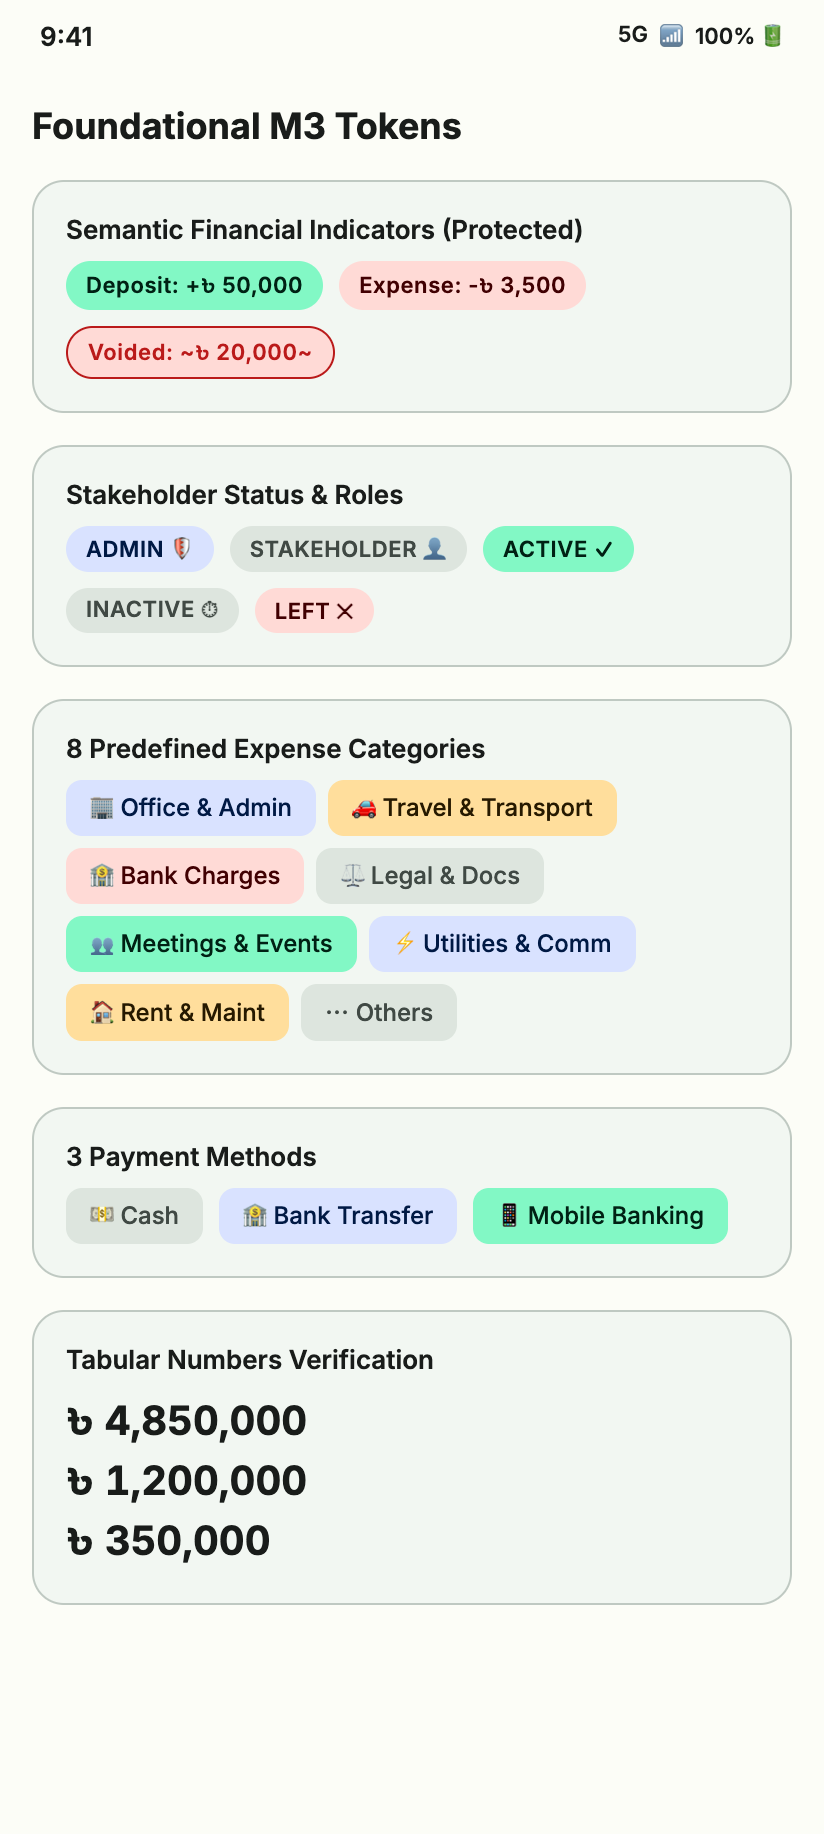
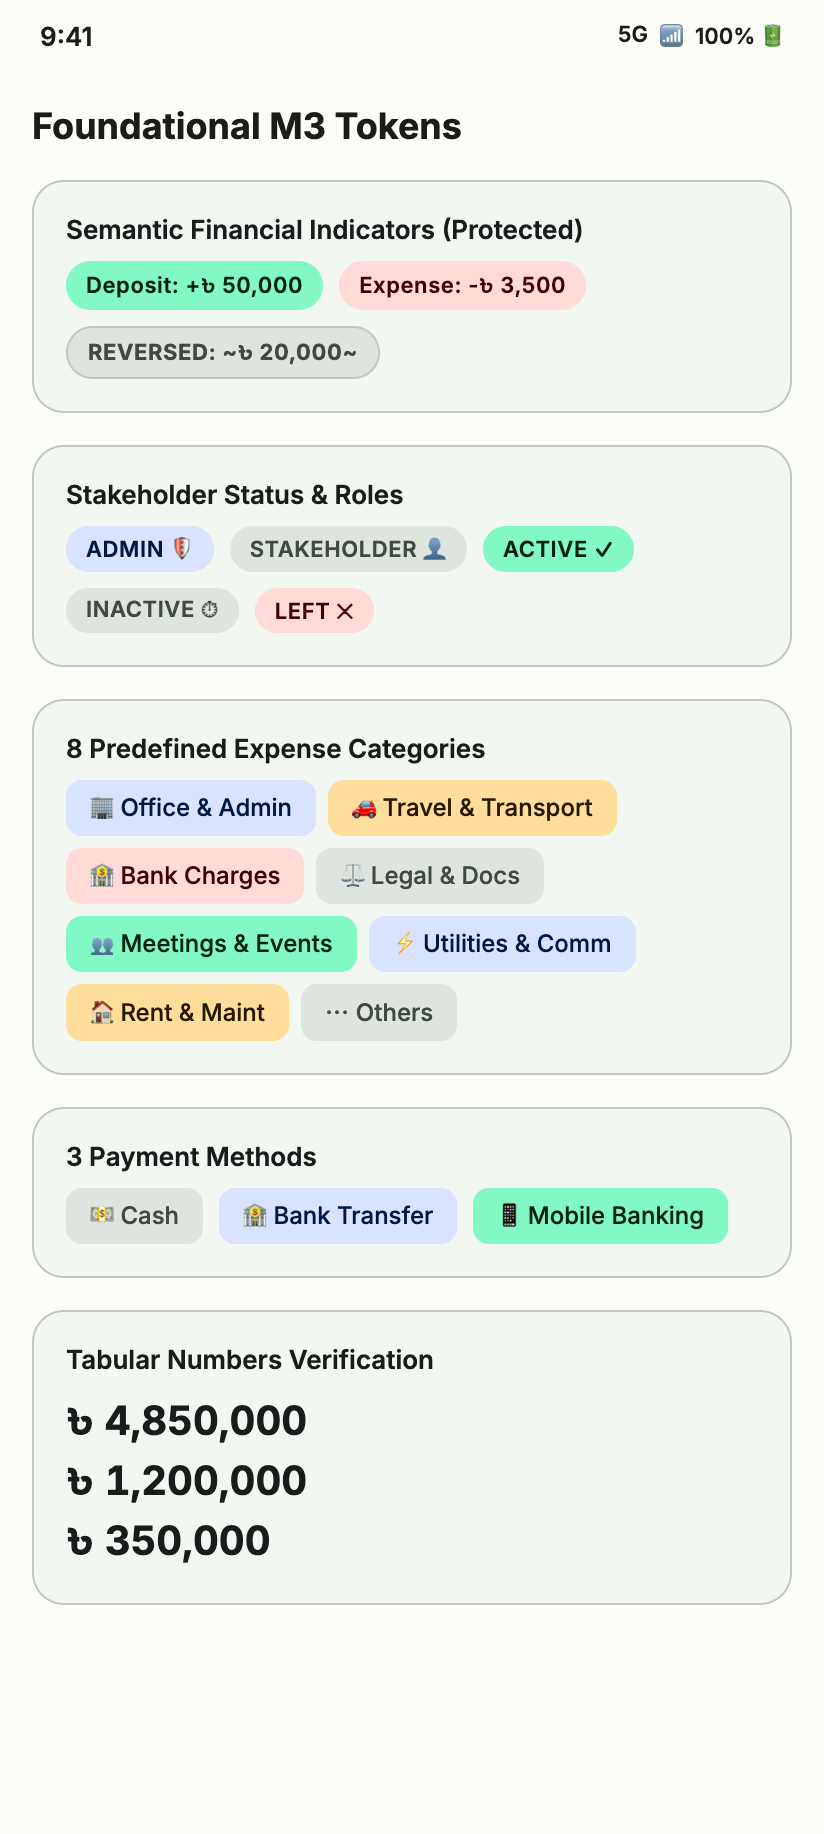
ux(copy): replace technical 'void' jargon with user-friendly 'reverse transaction' (Option A)

Changed region(s): [[0.0607, 0.1554, 0.4248, 0.2176]]

diff --git a/docs/design_preview/index.html b/docs/design_preview/index.html
@@ -490,7 +490,7 @@
     .pill-inactive { background: var(--fc-surface-variant); color: var(--fc-on-surface-variant); }
     .pill-left { background: var(--fc-error-container); color: var(--fc-on-error-container); }
     .pill-admin { background: var(--fc-secondary-container); color: var(--fc-on-secondary-container); }
-    .pill-voided { background: var(--fc-error-container); color: var(--fc-error); border: 1px solid var(--fc-error); }
+    .pill-reversed, .pill-voided { background: var(--fc-surface-variant); color: var(--fc-on-surface-variant); border: 1px solid var(--fc-outline-variant); font-weight: 700; }
 
     /* Category Chips */
     .chip {
@@ -625,9 +625,9 @@
     <div class="nav-item" onclick="showScreen('screen_05')">05. Transactions Ledger (ledger_transactions)</div>
     <div class="nav-item" onclick="showScreen('screen_06')">06. Transaction Detail & Audit Card</div>
 
-    <div class="nav-section-title">Flow 3: Financial Recording & Voids</div>
-    <div class="nav-item" onclick="showScreen('screen_07')">07. Add Transaction Modal (modal_add_tx)</div>
-    <div class="nav-item" onclick="showScreen('screen_14')">14. Void Confirmation Dialog (dialog_void_tx)</div>
+    <div class="nav-section-title">Flow 3: Financial Recording & Reversals</div>
+    <div class="nav-item" onclick="showScreen('screen_07')">07. Record Transaction Modal (modal_add_tx)</div>
+    <div class="nav-item" onclick="showScreen('screen_14')">14. Reverse Confirmation Dialog (dialog_reverse_tx)</div>
 
     <div class="nav-section-title">Flow 4: Stakeholders & KYC</div>
     <div class="nav-item" onclick="showScreen('screen_08')">08. Stakeholders Roster (members_roster)</div>
@@ -750,7 +750,7 @@
             <div style="display: flex; gap: 8px; flex-wrap: wrap;">
               <span class="pill pill-active">Deposit: +৳ 50,000</span>
               <span class="pill pill-left">Expense: -৳ 3,500</span>
-              <span class="pill pill-voided">Voided: ~৳ 20,000~</span>
+              <span class="pill pill-reversed">REVERSED: ~৳ 20,000~</span>
             </div>
           </div>
 
@@ -1082,9 +1082,9 @@
             <div class="card" style="padding: 12px 14px; opacity: 0.8; cursor: pointer;" onclick="showScreen('screen_06')">
               <div style="display: flex; justify-content: space-between;">
                 <span style="font-weight: 600; font-size: 14px; text-decoration: line-through;">~Sajjad Hossain (FC-005)~</span>
-                <span class="pill pill-voided">VOIDED</span>
+                <span class="pill pill-reversed">REVERSED ↩</span>
               </div>
-              <div style="font-size: 12px; color: var(--fc-error); margin-top: 2px;">Original: ৳ 50,000 • Reversal: -৳ 50,000</div>
+              <div style="font-size: 12px; color: var(--fc-on-surface-variant); margin-top: 2px;">Original: ৳ 50,000 • Reversal: -৳ 50,000</div>
               <div style="font-size: 11px; color: var(--fc-on-surface-variant); margin-top: 4px;">Oct 02, 2026 • Reason: Check bounced</div>
             </div>
           ` : `
@@ -1119,9 +1119,9 @@
             <div class="card" style="padding: 12px 14px; opacity: 0.8; cursor: pointer;" onclick="showScreen('screen_06')">
               <div style="display: flex; justify-content: space-between;">
                 <span style="font-weight: 600; font-size: 14px; text-decoration: line-through;">~Audit Consultation Fee~</span>
-                <span class="pill pill-voided">VOIDED</span>
+                <span class="pill pill-reversed">REVERSED ↩</span>
               </div>
-              <div style="font-size: 12px; color: var(--fc-error); margin-top: 2px;">Original: ৳ 15,000 • Reversal: +৳ 15,000</div>
+              <div style="font-size: 12px; color: var(--fc-on-surface-variant); margin-top: 2px;">Original: ৳ 15,000 • Reversal: +৳ 15,000</div>
               <div style="font-size: 11px; color: var(--fc-on-surface-variant); margin-top: 4px;">Oct 09, 2026 • Reason: Duplicate voucher</div>
             </div>
           `}
@@ -1172,16 +1172,16 @@
             </div>
           </div>
 
-          <!-- Void Action -->
+          <!-- Reverse Action -->
           <button class="btn-destructive" style="margin-top: 8px;" onclick="showScreen('screen_14')">
-            🚫 Void Transaction (Admin Only)
+            ↩ Reverse Transaction (Admin Only)
           </button>
 
-          <!-- Immutable Void Audit Disclosure Card -->
+          <!-- Transparency Audit Note Card -->
           <div class="card" style="background: var(--fc-elev-2); border-left: 4px solid var(--fc-secondary); margin-top: 12px;">
-            <div style="font-size: 12px; font-weight: 700; color: var(--fc-secondary);">📋 IMMUTABLE VOID DISCLOSURE SPEC</div>
+            <div style="font-size: 12px; font-weight: 700; color: var(--fc-secondary);">🛡 TRANSPARENCY AUDIT NOTE</div>
             <div style="font-size: 12px; color: var(--fc-on-surface-variant); margin-top: 4px; line-height: 1.4;">
-              If voided, the original whole-integer amount is permanently preserved. An audit card records the exact timestamp, admin email, reason, and atomic aggregate reversal.
+              To protect financial trust, entries cannot be erased. If reversed, the original whole-integer amount is permanently preserved, while circle balances are atomically reversed by -originalAmount with an audit note.
             </div>
           </div>
         `
@@ -1770,21 +1770,21 @@
         `
       },
 
-      // 14. Void Transaction Dialog (Admin)
+      // 14. Reverse Transaction Dialog (Admin)
       screen_14: {
-        title: "14. Void Transaction Dialog (dialog_void_tx)",
-        desc: "Screen 14: Immutable transaction voiding protocol with mandatory reason and atomic balance reversal",
+        title: "14. Reverse Transaction Dialog (dialog_reverse_tx)",
+        desc: "Screen 14: Immutable transaction reversal protocol with mandatory reason and atomic balance reversal",
         showNav: false,
         render: () => `
           <div class="modal-overlay" style="align-items: center; justify-content: center; padding: 20px;">
             <div class="card" style="background: var(--fc-surface); width: 100%; border-radius: 24px; padding: 24px; box-shadow: 0 10px 40px rgba(0,0,0,0.3);">
               <div style="display: flex; justify-content: space-between; align-items: center; margin-bottom: 8px;">
-                <div style="font-size: 26px;">⚠</div>
+                <div style="font-size: 26px;">↩</div>
                 <span style="cursor: pointer; font-size: 18px;" onclick="showScreen('screen_06')">✕</span>
               </div>
-              <h3 style="font-size: 18px; font-weight: 700;">Void Transaction?</h3>
+              <h3 style="font-size: 18px; font-weight: 700;">Reverse this Transaction?</h3>
               <p style="font-size: 12px; color: var(--fc-on-surface-variant); margin: 6px 0 12px; line-height: 1.4;">
-                Financial records are immutable. The original amount remains recorded, while circle aggregate balances are atomically reversed. This record will permanently remain in the ledger marked as VOIDED.
+                This will subtract the amount back from the pool balance. To protect trust among all circle members, financial records are immutable—this entry will permanently remain in the ledger marked as REVERSED.
               </p>
 
               <!-- Read-only Summary -->
@@ -1798,7 +1798,7 @@
               </div>
 
               <div class="input-group">
-                <label class="input-label">Mandatory Void Reason *</label>
+                <label class="input-label">Reason for Reversal *</label>
                 <div class="input-box focused">
                   <input type="text" value="Duplicate bank payment voucher entry." style="border:none; outline:none; background:transparent; color:inherit; font-size:14px; width:100%;">
                 </div>
@@ -1806,8 +1806,8 @@
               </div>
 
               <div style="display: flex; gap: 8px; margin-top: 16px;">
-                <button class="btn-outlined" style="height: 44px; flex: 1;" onclick="showScreen('screen_06')">Cancel</button>
-                <button class="btn-destructive" style="height: 44px; flex: 2;" onclick="showScreen('screen_05')">Confirm Void & Reverse</button>
+                <button class="btn-outlined" style="height: 44px; flex: 1;" onclick="showScreen('screen_06')">Keep Entry</button>
+                <button class="btn-destructive" style="height: 44px; flex: 2;" onclick="showScreen('screen_05')">Confirm & Reverse</button>
               </div>
             </div>
           </div>

diff --git a/docs/design_preview/gallery.html b/docs/design_preview/gallery.html
@@ -407,7 +407,7 @@
             <ul>
               <li>Unified chronological journal</li>
               <li>All / Deposits / Expenses filter tabs</li>
-              <li>Voided items strike-through with audit tag</li>
+              <li>Reversed items strike-through with REVERSED ↩ badge</li>
             </ul>
           </div>
         </div>
@@ -427,8 +427,8 @@
           <div class="screen-rules">
             <ul>
               <li>Comprehensive metadata & proof of payment</li>
-              <li>Admin-only Void action trigger</li>
-              <li>Immutable void disclosure card</li>
+              <li>Admin-only Reverse action trigger</li>
+              <li>Transparency audit note card</li>
             </ul>
           </div>
         </div>
@@ -440,7 +440,7 @@
   <section class="flow-section">
     <div class="flow-header">
       <span class="flow-tag">Flow 3</span>
-      <h2 class="flow-title">Financial Recording & Immutable Voids</h2>
+      <h2 class="flow-title">Financial Recording & Reversals</h2>
     </div>
     <div class="flow-grid">
       <!-- Screen 07 -->
@@ -467,18 +467,18 @@
       <!-- Screen 14 -->
       <div class="screen-card">
         <div class="screen-preview">
-          <img src="screens/07b_Void_Confirmation_Dialog_dialog_void_tx.png" alt="14. Void Confirmation Dialog">
+          <img src="screens/07b_Reverse_Confirmation_Dialog_dialog_reverse_tx.png" alt="14. Reverse Confirmation Dialog">
         </div>
         <div class="screen-meta">
           <div>
             <div class="screen-number">Screen 14</div>
-            <div class="screen-name">Void Confirmation Dialog</div>
-            <div class="screen-route">dialog_void_tx • VoidConfirmDialog.kt</div>
+            <div class="screen-name">Reverse Confirmation Dialog</div>
+            <div class="screen-route">dialog_reverse_tx • ReverseConfirmDialog.kt</div>
           </div>
           <div class="screen-rules">
             <ul>
               <li>Zero hard deletes (audit invariant)</li>
-              <li>Mandatory void reason input (&ge; 5 chars)</li>
+              <li>Mandatory reversal reason input (&ge; 5 chars)</li>
               <li>Atomic balance reversal (-originalAmount)</li>
             </ul>
           </div>

diff --git a/docs/Fund_Circle_Wireframes_and_UI_Spec_v1.0.md b/docs/Fund_Circle_Wireframes_and_UI_Spec_v1.0.md
@@ -274,7 +274,7 @@ All financial numbers and currency amounts strictly use **Tabular Digits** (`Fon
 │ │ 10 Nov 2026 • Cash                                 │ │
 │ ├────────────────────────────────────────────────────┤ │
 │ │ Sajjad Hossain (FC-004)              ~+ ৳ 50,000~  │ │ <-- Strikethrough Original Amount
-│ │ 05 Nov 2026 • Cash                      [VOIDED]   │ │ <-- Amber Outline Badge (isVoid=true)
+│ │ 05 Nov 2026 • Cash                    [REVERSED ↩]  │ │ <-- Outline Badge (isVoid=true)
 │ └────────────────────────────────────────────────────┘ │
 │                                                        │
 │ OCTOBER 2026                                           │
@@ -289,8 +289,8 @@ All financial numbers and currency amounts strictly use **Tabular Digits** (`Fon
 ---
 
 ### Screen 06: Transaction Details & Audit Disclosure Card
-*   **Purpose:** Complete transparency for a single transaction, showing immutable values, void status, and audit disclosures.
-*   **User Roles:** Both roles (Admin has 'Void Transaction' button if active).
+*   **Purpose:** Complete transparency for a single transaction, showing immutable values, reversal status, and audit disclosures.
+*   **User Roles:** Both roles (Admin has 'Reverse Transaction' button if active).
 
 ```text
 ┌────────────────────────────────────────────────────────┐
@@ -305,13 +305,13 @@ All financial numbers and currency amounts strictly use **Tabular Digits** (`Fon
 │ Status:         Posted • Active                        │
 │                                                        │
 │ ┌────────────────────────────────────────────────────┐ │
-│ │ [Ban] Void Transaction                             │ │ <-- Admin Only Action Button (Opens Screen 14)
-│ └────────────────────────────────────────────────────┘ │     (Disabled / hidden if already voided)
+│ │ [↩] Reverse Transaction (Admin Only)                │ │ <-- Admin Only Action Button (Opens Screen 14)
+│ └────────────────────────────────────────────────────┘ │     (Disabled / hidden if already reversed)
 ├────────────────────────────────────────────────────────┤
-│ [!] VOID AUDIT DISCLOSURE                              │ <-- Visible only if isVoid == true
+│ [🛡] TRANSPARENCY AUDIT NOTE                          │ <-- Visible only if isVoid == true
 │ ┌────────────────────────────────────────────────────┐ │
-│ │ VOIDED ON: 13 Nov 2026, 14:32                      │ │ <-- Immutable Void Audit Card
-│ │ Voided by: kawsar@example.com (Admin)              │ │
+│ │ REVERSED ON: 13 Nov 2026, 14:32                     │ │ <-- Immutable Reversal Audit Card
+│ │ Reversed by: kawsar@example.com (Admin)            │ │
 │ │ Reason: "Duplicate bank payment voucher entry."     │ │
 │ │ Impact: Balance atomically reversed by -৳ 100,000  │ │
 │ └────────────────────────────────────────────────────┘ │
@@ -635,17 +635,18 @@ All financial numbers and currency amounts strictly use **Tabular Digits** (`Fon
 
 ---
 
-### Screen 14: Void Transaction Dialog (Admin)
-*   **Purpose:** Immutable transaction voiding protocol with mandatory reason and atomic balance reversal.
+### Screen 14: Reverse Transaction Dialog (Admin)
+*   **Purpose:** Immutable transaction reversal protocol with mandatory reason and atomic balance reversal.
 *   **User Roles:** Admin only.
 
 ```text
 ┌────────────────────────────────────────────────────────┐
 │                        [Drag Handle]                   │
 │                                                        │
-│ Void Transaction                              [X Close]│
-│ Financial records are immutable. Voiding reverses the  │
-│ balance impact and permanently logs an audit entry.    │
+│ Reverse this Transaction?                     [X Close]│
+│ This will subtract the amount back from the pool       │
+│ balance. Financial records are immutable—this entry    │
+│ will permanently remain marked as REVERSED.            │
 │                                                        │
 │ ┌────────────────────────────────────────────────────┐ │
 │ │ TX-001 • Deposit • Bank Transfer                  │ │ <-- Read-Only Transaction Summary
@@ -653,18 +654,18 @@ All financial numbers and currency amounts strictly use **Tabular Digits** (`Fon
 │ │ Date: 12 / 11 / 2026 • Recorded by Admin           │ │
 │ └────────────────────────────────────────────────────┘ │
 │                                                        │
-│ Mandatory Void Reason *                                │
+│ Reason for Reversal *                                  │
 │ ┌────────────────────────────────────────────────────┐ │
 │ │ Duplicate payment entry reported by bank           │ │ <-- OutlinedTextField (Required)
 │ │ statement reconciliation.                          │ │     Character counter: 53/250
 │ └────────────────────────────────────────────────────┘ │     Helper: 5-250 characters
 │                                                        │
 │ ┌────────────────────────────────────────────────────┐ │
-│ │ Confirm Void & Reverse Balance                     │ │ <-- FilledButton (Error Container)
+│ │ Confirm & Reverse Balance                          │ │ <-- FilledButton (Error Container)
 │ └────────────────────────────────────────────────────┘ │     Disabled until reason >= 5 chars
 │                                                        │
 │ ┌────────────────────────────────────────────────────┐ │
-│ │ Cancel                                             │ │ <-- TextButton (Neutral)
+│ │ Keep Entry                                         │ │ <-- TextButton (Neutral)
 │ └────────────────────────────────────────────────────┘ │
 └────────────────────────────────────────────────────────┘
 ```

diff --git a/docs/design_preview/FIGMA_INTEGRATION_GUIDE.md b/docs/design_preview/FIGMA_INTEGRATION_GUIDE.md
@@ -35,10 +35,10 @@ For documentation, presentations, and design reviews, all 14 screens + Design To
 | **02** | [`02_Circle_Hub_circle_hub.png`](screens/02_Circle_Hub_circle_hub.png) | `circle_hub` (`CircleHubScreen.kt`) | Multi-circle hub, Max 5 admin limit, Green Valley: ৳ 1,450,000 |
 | **03** | [`03_Create_Wizard_circle_create.png`](screens/03_Create_Wizard_circle_create.png) | `circle_create` (`CreateCircleScreen.kt`) | Base Currency lock (BDT/USD/EUR), Target amount `Long` $\ge 1$ |
 | **04** | [`04_Circle_Dashboard_dashboard_home.png`](screens/04_Circle_Dashboard_dashboard_home.png) | `dashboard_home` (`DashboardScreen.kt`) | $O(1)$ Parent Aggregate Read, ৳ 1.6M Inflows, ৳ 150K Outflows |
-| **05** | [`05_Transactions_Ledger_ledger_transactions.png`](screens/05_Transactions_Ledger_ledger_transactions.png) | `ledger_transactions` (`LedgerScreen.kt`) | Chronological audit ledger, Filter chips, Void badges |
-| **06** | [`06_Transaction_Detail_Audit_Card.png`](screens/06_Transaction_Detail_Audit_Card.png) | `tx_detail/{id}` (`TxDetailScreen.kt`) | Verified deposit, Admin Void action trigger, Immutable disclosure |
+| **05** | [`05_Transactions_Ledger_ledger_transactions.png`](screens/05_Transactions_Ledger_ledger_transactions.png) | `ledger_transactions` (`LedgerScreen.kt`) | Chronological audit ledger, Filter chips, REVERSED ↩ badges |
+| **06** | [`06_Transaction_Detail_Audit_Card.png`](screens/06_Transaction_Detail_Audit_Card.png) | `tx_detail/{id}` (`TxDetailScreen.kt`) | Verified deposit, Admin Reverse action trigger, Transparency disclosure |
 | **07** | [`07_Add_Transaction_Modal_modal_add_tx.png`](screens/07_Add_Transaction_Modal_modal_add_tx.png) | `modal_add_tx` (`RecordTxSheet.kt`) | Capital Inflow / Pool Expense toggle, 8 M3 Category chips |
-| **07b**| [`07b_Void_Confirmation_Dialog_dialog_void_tx.png`](screens/07b_Void_Confirmation_Dialog_dialog_void_tx.png)| `dialog_void_tx` (`VoidConfirmDialog.kt`) | Zero hard deletes, Mandatory reason (&ge; 5 chars), Balance reversal |
+| **07b**| [`07b_Reverse_Confirmation_Dialog_dialog_reverse_tx.png`](screens/07b_Reverse_Confirmation_Dialog_dialog_reverse_tx.png)| `dialog_reverse_tx` (`ReverseConfirmDialog.kt`) | Zero hard deletes, Mandatory reason (&ge; 5 chars), Balance reversal |
 | **08** | [`08_Stakeholders_Roster_members_roster.png`](screens/08_Stakeholders_Roster_members_roster.png) | `members_roster` (`MembersRosterScreen.kt`) | **Strict 2 Roles** (`ADMIN 🛡` & `STAKEHOLDER 👤`), Zero Co-Admin |
 | **09** | [`09_Member_Detail_Ledger_member_detail.png`](screens/09_Member_Detail_Ledger_member_detail.png) | `member_detail/{id}` (`MemberDetailScreen.kt`) | Member contribution history (৳ 450,000), KYC info |
 | **10** | [`10_Add_Stakeholder_Modal_modal_add_member.png`](screens/10_Add_Stakeholder_Modal_modal_add_member.png) | `modal_add_member` (`InviteMemberSheet.kt`) | Member ID auto-allocation (`FC-005`), Stakeholder role only |
